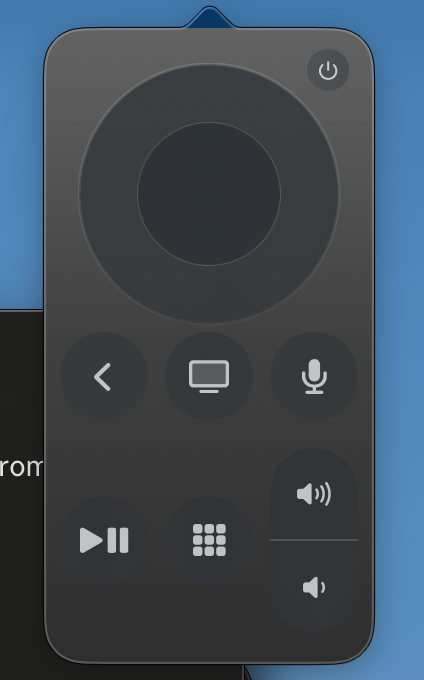
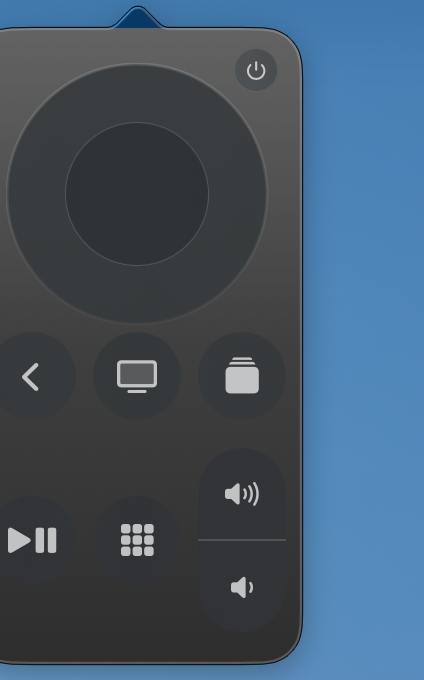
Update README + remote-connected screenshot
- Remove the "Siri hold-to-talk" feature line from the Features list
  (the button only ever did app switcher; renaming was the fix).
- Rewrite the Trackpad gestures section in plain-English with three
  emoji-headed subsections: 🫳 2-finger swipe, 🫴 Option + 2-finger
  swipe (with friendly explanation of why a modifier), 👆 2-finger
  click.
- Recapture screenshots/remote-connected.png against the current build
  so the bottom-row icon shows the App Switcher (stack-of-cards)
  rather than the old mic.

Remaining "Siri Remote" references in the README are intentional —
they describe the physical Siri Remote hardware our UI emulates
visually, or explicitly clarify "not Siri".

diff --git a/README.md b/README.md
@@ -26,9 +26,12 @@ reverse-engineered **Companion** and **MRP** protocols.
   ✓ for the connected one, "paired" / "click to pair" markers; one-click
   switching between paired devices without re-entering a PIN.
 - **Trackpad gestures** — 2-finger swipe on the trackpad while the popover
-  is open sends directional input. Or click and drag across the clickpad.
-- **Power button**, **Siri hold-to-talk**, **volume rocker**, **play/pause**,
-  **home**, **back**.
+  is open sends directional input. 2-finger click selects. Hold **Option**
+  while swiping for momentum scroll. Or click and drag across the on-screen
+  clickpad.
+- **Power-toggle button**, **App Switcher**, **volume rocker**,
+  **play/pause**, **home**, **back** (long-press → screensaver).
+- **Long-press the clickpad centre** → home-screen edit-apps mode.
 - **App launcher** — slide-out panel to the left of the remote; browse the
   apps installed on the Apple TV, search, tap to launch.
 - **Keyboard text input** — when the Apple TV opens a text field, a small
@@ -120,30 +123,76 @@ elapsed/duration progress bar. The popover grows taller to accommodate
 it; closes back when the TV idles. Driven by
 `CompanionConnection.$nowPlaying` (updated by the AirPlay tunnel).
 
-### Trackpad navigation
+### Trackpad gestures
 
-While the popover is open, you can drive the Apple TV without ever
-moving the cursor onto the remote face:
+Open the popover, then drive your Apple TV using your Mac's trackpad —
+no need to keep moving the cursor onto the on-screen remote buttons.
+Three gestures, all only active while the popover is showing:
 
-| Gesture | What it does | How it works |
-|---|---|---|
-| **2-finger swipe** ↑↓←→ | Discrete directional press (`up`/`down`/`left`/`right`) | An `NSEvent.scrollWheel` local monitor accumulates trackpad deltas; once 60pt of motion lands in one axis it fires one arrow and resets that axis. Momentum (post-release) events are ignored. Mouse wheels are filtered out (`hasPreciseScrollingDeltas`). |
-| **⌥ Option + 2-finger swipe** ↑↓←→ | Plain `sendSwipe` (touchpad-flick gesture). Larger amplitude per fire than an arrow — useful for momentum scrolling through long lists. Doesn't pause/unpause playback (no select-press). | Modifier is captured at the swipe session's `.began` phase so a mid-swipe release doesn't flip behaviour. Threshold drops to 25pt so a normal Option-swipe fires multiple flicks. Rate-limited to one per 400ms to prevent overlapping touch sessions on the tvOS side. |
-| **2-finger click** | Sends `select` | macOS dispatches a 2-finger click as `.rightMouseDown` by default. The monitor catches it and fires `select`. Right-clicking the **menu-bar icon** still opens the context menu — those clicks are filtered out by checking `event.window`. |
+#### 🫳 2-finger swipe ↑ ↓ ← →
 
-All three gestures are scoped to popover lifetime: the event monitor is
-installed when the popover opens (`popoverDidShow`) and removed when it
-closes. So they won't interfere with normal trackpad behaviour
-elsewhere on your Mac.
+**What it does:** moves the highlight one step at a time on the Apple
+TV — same as pressing one of the arrow keys on a real remote.
 
-The vertical sign for swipes is empirically calibrated so finger-up
-sends `up` regardless of your "Natural scrolling" preference. The
+**When to use it:** ordinary navigation. Picking a row on the home
+screen, walking through menus, choosing letters on the on-screen
+keyboard.
+
+The gesture is calibrated so a normal-feeling finger flick fires
+exactly one arrow. If you sustain the swipe, more arrows fire as you
+keep moving — but you have to swipe a noticeable distance for each
+one (a gentle nudge won't accidentally skip two).
+
+#### 🫴 Option (⌥) + 2-finger swipe ↑ ↓ ← →
+
+**What it does:** sends a *bigger* swipe — the kind of gesture that
+makes tvOS apps fast-scroll through long lists. Each Option-held swipe
+fires a fast-scroll flick (or several in succession if you keep
+swiping).
+
+**When to use it:** anywhere you'd want to skim quickly past a lot of
+content — scrubbing through a guide, racing past chapters in a TV
+show, jumping through a long shelf of apps.
+
+Why a modifier key? On a real Siri Remote there's no "fast scroll"
+button — it's a feel-it-out gesture on the touchpad. On a Mac
+trackpad we can't reliably tell a tiny flick apart from a sustained
+swipe, so holding **Option** is the explicit "yes I mean a flick, not
+a single arrow" signal. Hold it down, swipe normally, let go when
+you're done.
+
+Tip: Option-held swipes won't pause whatever's playing — they're pure
+navigation motion, so you can scrub a guide without stopping the
+video.
+
+#### 👆 2-finger click
+
+**What it does:** selects the highlighted item — same as pressing the
+centre of the click-wheel on a real remote.
+
+**When to use it:** every time you'd press select. Once you've used
+the 2-finger swipe to land on the row you want, just 2-finger click
+to open it. No need to reach over to the on-screen clickpad.
+
+> macOS already uses 2-finger click for "right-click" elsewhere. While
+> this app's popover is open, that 2-finger click is repurposed to
+> mean "select on the Apple TV". Right-clicking the **menu-bar icon
+> itself** still works the same way — it opens the device menu.
+
+---
+
+All three gestures are scoped to the popover's lifetime — they only
+work while the remote is visible on screen. The moment you click
+outside the popover and it closes, normal trackpad behaviour resumes
+for the rest of your Mac.
+
+Behind the scenes (for the curious): an `NSEvent.scrollWheel` local
 monitor lives in [`MenuBarController.swift`](Sources/AppleTVRemote/MenuBarController.swift)
-under "Trackpad swipe-to-arrow"; tunable knobs there:
+under "Trackpad swipe-to-arrow". Knobs you can tune:
 
-- `scrollSwipeThreshold` (60pt) — arrow-press distance per fire (plain swipe).
-- Option-held threshold (25pt) — flick-gesture distance per fire (Option-swipe).
-- `optionSwipeMinInterval` (0.4s) — rate-limit between Option-held flicks.
+- `scrollSwipeThreshold` (60pt) — distance per arrow on plain swipes.
+- Option-held threshold (25pt) — distance per flick on Option swipes.
+- `optionSwipeMinInterval` (0.4s) — rate-limit between Option flicks.
 
 ## Launch at startup
 
